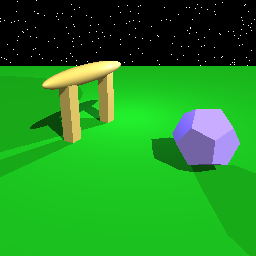
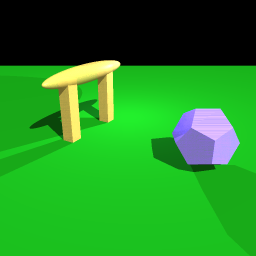
with reflections

diff --git a/A4/A4.cpp b/A4/A4.cpp
@@ -10,6 +10,7 @@
 #define MAX_BOUNCE 100
 #define EPSILON 0.01
 #define ANTIALIAS 0
+#define REFLECTION 0
 
 static SceneNode* m_root;
 static int pixel_count = 0;
@@ -85,7 +86,6 @@ void A4_Render(
 //                          || (y >= h/2 && x >= w/2)) ? 1.0 : 0.0;
             
             if (ANTIALIAS) {
-                std::cout << "antialias" << std::endl;
                 world_coord1 = pixelToWorld(glm::vec3(       x,               y,      0), transformation);
                 world_coord2 = pixelToWorld(glm::vec3(x + 1.0f/3.0f,         y,0),       transformation);
                 world_coord3 = pixelToWorld(glm::vec3(x + 2.0f/3.0f,         y,0),       transformation);
@@ -134,8 +134,7 @@ void A4_Render(
                 
                 double prog = (double)pixel_count/(double)(image.width()*image.height());
                 
-                std::cout << "Progress: " << prog << std::endl;
-                std::cout << "Progress: " << pixel_count << std::endl;
+                std::cout << "Progress: " << prog*100 << std::endl;
                 
                 image(x, y, 0) = col_sum.r;
                 image(x, y, 1) = col_sum.g;
@@ -151,8 +150,7 @@ void A4_Render(
                 
                 double prog = (double)pixel_count/(double)(image.width()*image.height());
                 
-                std::cout << "Progress: " << prog << std::endl;
-                std::cout << "Progress: " << pixel_count << std::endl;
+                std::cout << "Progress: " << prog*100 << std::endl;
                 
                 Color rc = rayColor(r, lights, 0);
                 image(x, y, 0) = rc.r;
@@ -177,10 +175,25 @@ Color rayColor(const Ray& r, const std::list<Light *> & lights, int counter) {
     
     if (hit_info.hit) {
         col += hit_info.phong_mat->m_kd * AmbientLight;
-        col += directLight(lights, hit_info, counter);
+        
+        if (hit_info.phong_mat->m_kd != glm::vec3(0)) {
+            col += directLight(lights, hit_info, counter);
+        }
+
+        
+        if (REFLECTION) {
+            if (hit_info.phong_mat->m_ks != glm::vec3(0) and counter < MAX_BOUNCE){
+                counter++;
+                glm::vec4 reflected_direction = hit_info.incident_ray.direction - (2 * glm::dot(hit_info.incident_ray.direction, hit_info.normal) * hit_info.normal);
+                glm::vec4 intersection_point = hit_info.incident_ray.origin + (hit_info.t * hit_info.incident_ray.direction);
+                
+                Ray reflected_ray = Ray(intersection_point, reflected_direction);
+                
+                col += hit_info.phong_mat->m_ks * rayColor(reflected_ray, lights, counter) * hit_info.phong_mat->m_shininess/100;
+            }
+        }
     } else {
         int number = rand_int(1, 100);
-        std::cout << number << std::endl;
         if (number == 1)
             col = glm::vec3(1,1,1);
         else

diff --git a/A4/Mesh.cpp b/A4/Mesh.cpp
@@ -63,7 +63,6 @@ void Mesh::hitTest(const Ray &r, HitInformation &hit_info) {
             hit_info.normal = glm::vec4(glm::normalize(glm::triangleNormal(m_vertices[face.v1], m_vertices[face.v2], m_vertices[face.v3])), 0);
             
             hit_info.hit_point = r.origin + (r.direction * t);
-            std::cout << "hit the mesh" << std::endl;
         }
     }
 }
